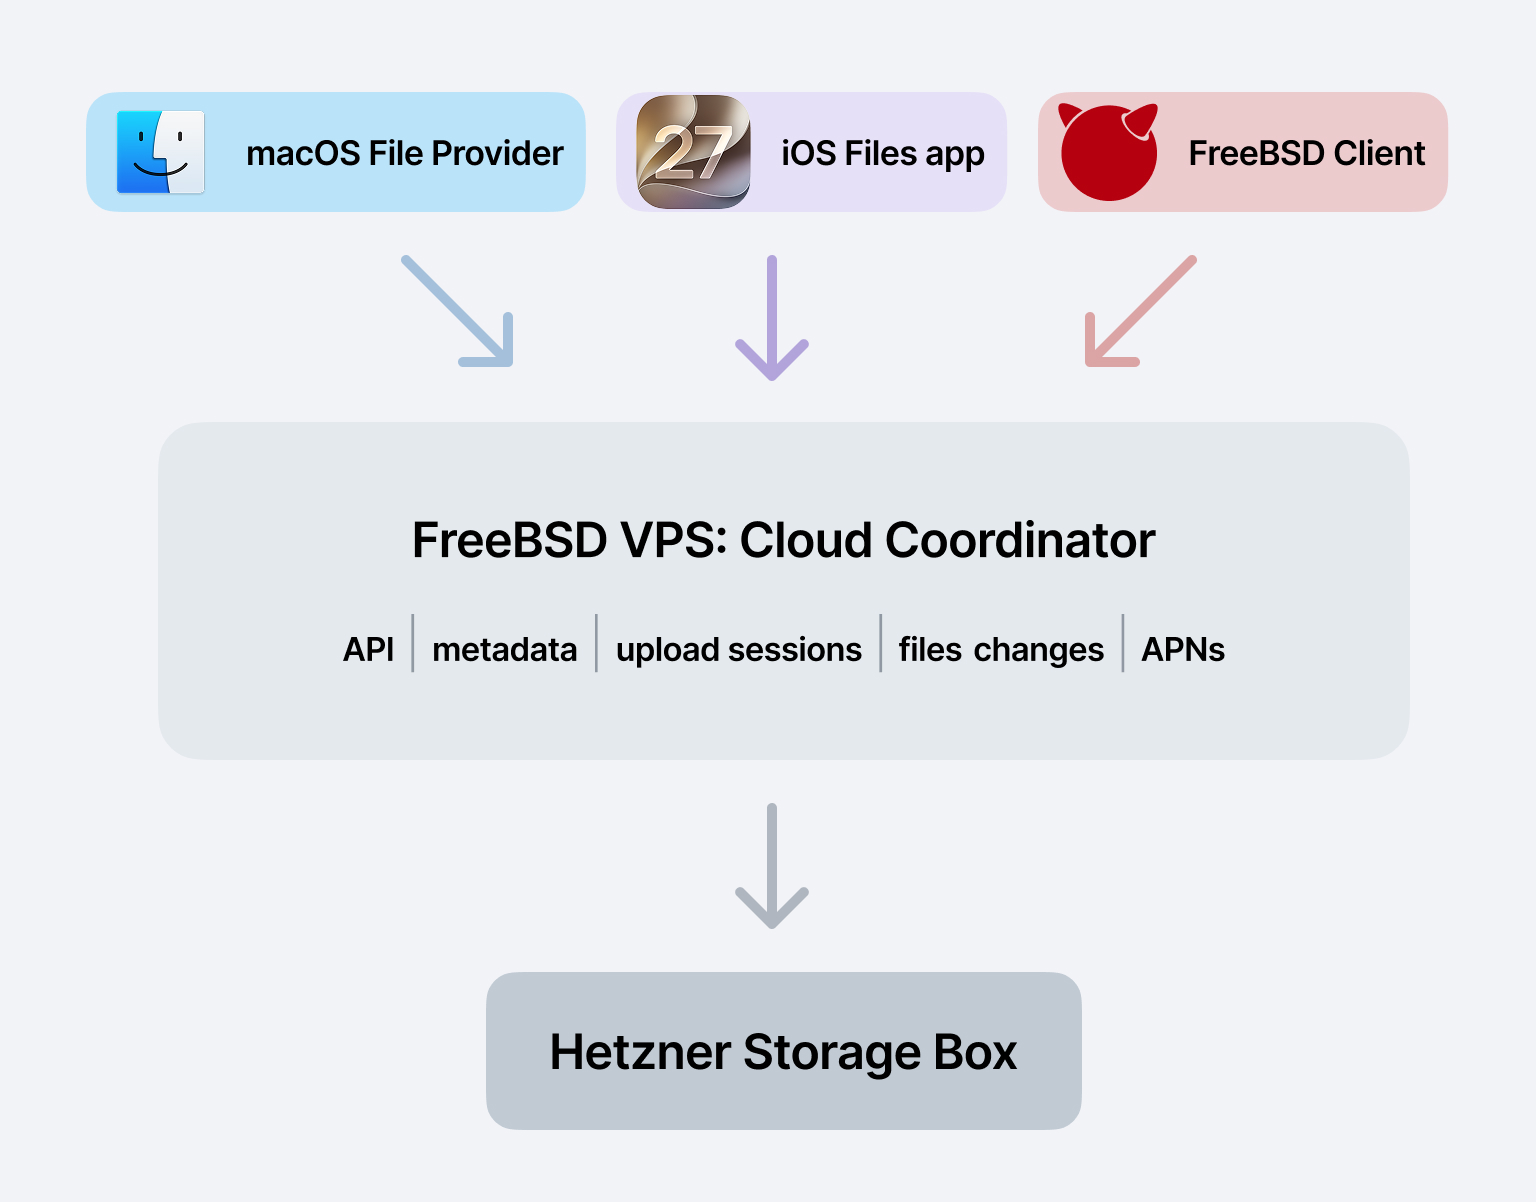
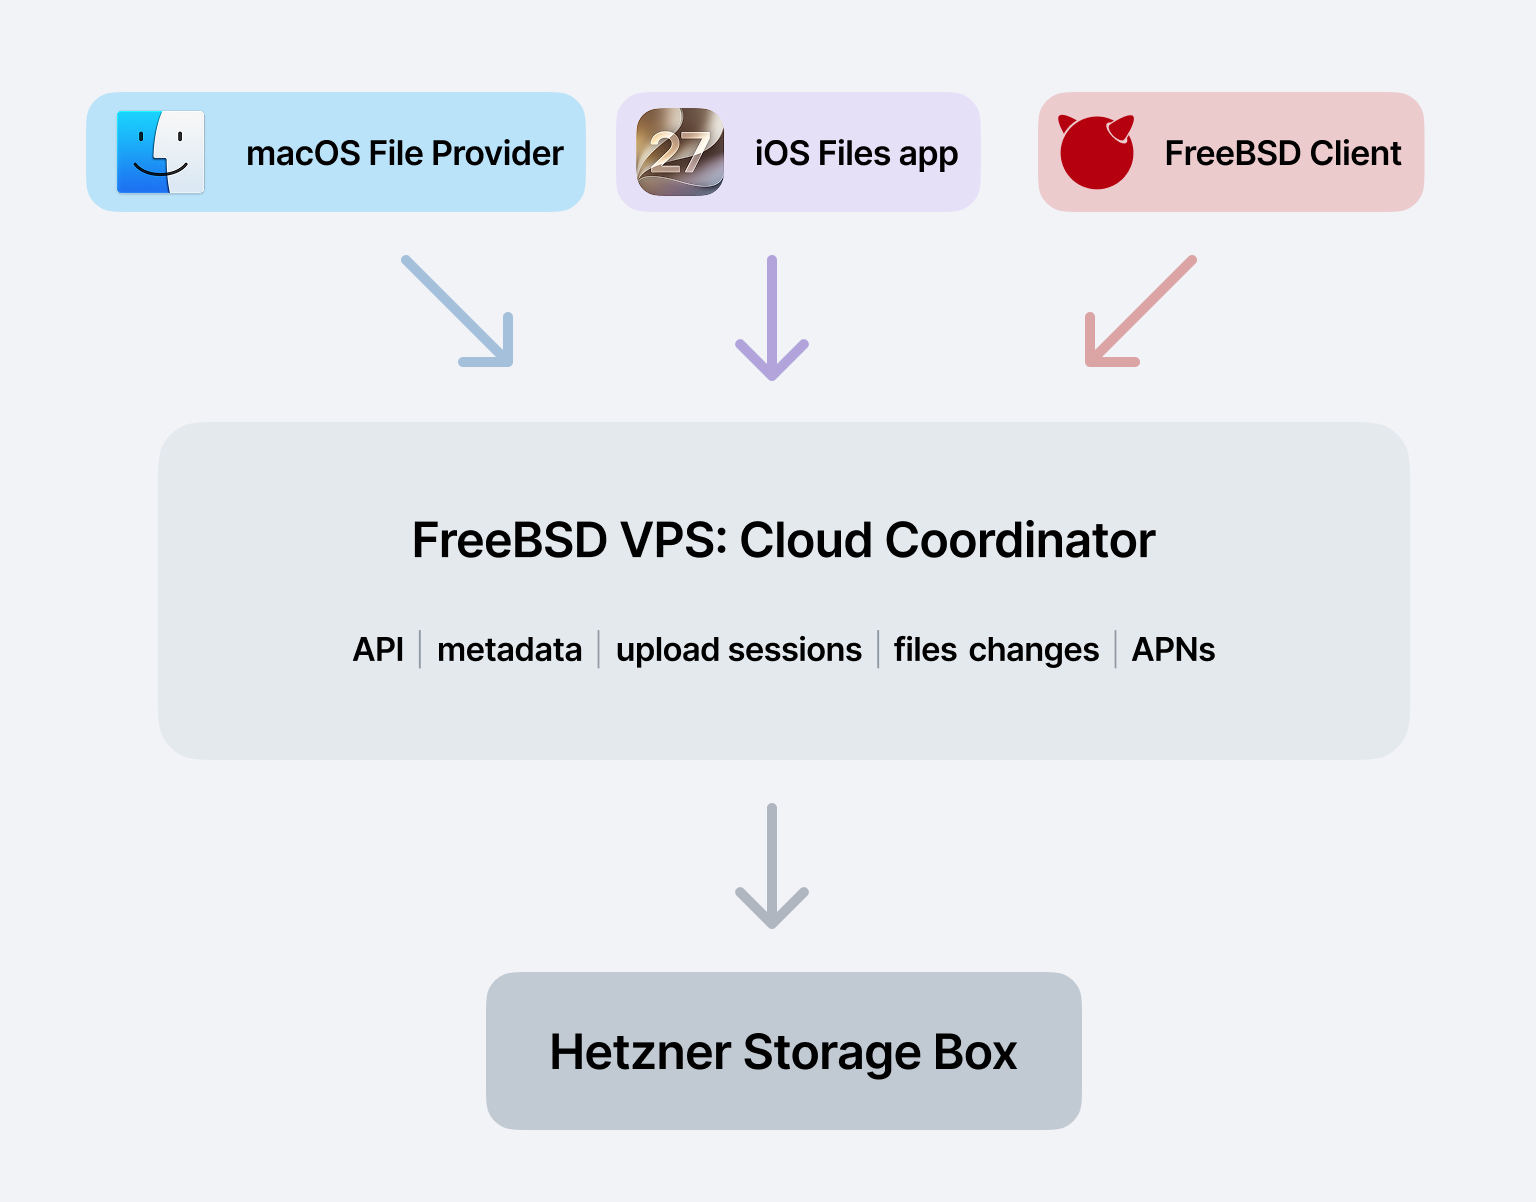
New

diff --git a/public/blog/2026/i-built-a-freebsd-cloud-to-use-with-freebsd/index.html b/public/blog/2026/i-built-a-freebsd-cloud-to-use-with-freebsd/index.html
@@ -119,7 +119,9 @@
 
   <div class="content article-heading-anchors" data-heading-anchors>
     <p>At the moment, I’m working on my own window manager for FreeBSD, called Asterwm. The goal is to make its UX similar to macOS, so I can switch from Mac to FreeBSD during the day without having to readjust my muscle memory.</p>
-<p><img src="/blog/2026/i-built-a-freebsd-cloud-to-use-with-freebsd/asterwm-for-freebsd_hu_53d63bbdc0695de7.webp"  alt="User interface for Asterwm"  width="1920" height="1200" loading="lazy" decoding="async"></p>
+<p><a href="asterwm-for-freebsd.jpg"><img src="/blog/2026/i-built-a-freebsd-cloud-to-use-with-freebsd/asterwm-for-freebsd_hu_53d63bbdc0695de7.webp"  alt="User interface for Asterwm"  width="1920" height="1200" loading="lazy" decoding="async"></a>
+<a href="asterwm-for-freebsd-2.png"><img src="/blog/2026/i-built-a-freebsd-cloud-to-use-with-freebsd/asterwm-for-freebsd-2.png" alt="User interface for Asterwm" 
+  width="1919" height="1199" loading="lazy" decoding="async"></a></p>
 <p>One of the most important things for me was being able to access both my work and personal files.</p>
 <p>I know I could install ready-to-use software for Google Drive or something similar. But I decided to use the power of Codex to build my own cloud solution instead.</p>
 <h2 id="technical-stack-of-the-freebsd-cloud">Technical Stack of the FreeBSD Cloud</h2>
@@ -128,7 +130,11 @@
 <li>A Hetzner Storage Box, where the files are actually stored.</li>
 <li>macOS, iOS, and Asterwm clients to manage files in the cloud: sending, receiving, modifying, and deleting them.</li>
 </ol>
-<p><img src="/blog/2026/i-built-a-freebsd-cloud-to-use-with-freebsd/freebsd-cloud-technical-stack_hu_de7a0c4ef2aa1d1e.webp"  alt="Technical Stack of the FreeBSD Cloud"  width="1536" height="1202" loading="lazy" decoding="async"></p>
+<p><img src="/blog/2026/i-built-a-freebsd-cloud-to-use-with-freebsd/freebsd-cloud-technical-stack_hu_4fb9008bdb27df55.webp"  alt="Technical Stack of the FreeBSD Cloud"  width="1536" height="1202" loading="lazy" decoding="async"></p>
+<br/>
+<video playsinline autoplay loop muted>
+  <source src="new-folder-in-asterwm.mp4" type="video/mp4">
+</video>
 <h2 id="roles">Roles</h2>
 <p>Every file is stored in the Hetzner Storage Box, but no client can talk to that box directly. Each client connects to the VPS to send, receive, update, or delete files. The FreeBSD server keeps track of changes, records them in SQL, and sends files to the Storage Box.</p>
 <p>At the same time, the VPS resolves sync conflicts and notifies every client about changes.</p>
@@ -154,15 +160,16 @@
 <h2 id="unique-feature-for-asterwm">Unique Feature for Asterwm</h2>
 <p>In Asterwm I set it to download not 1, but 4 thumbnails for video files. So I can hover it to see what’s inside without even downloading the file.</p>
 <br/>
-<blockquote class="mastodon-embed" data-embed-url="https://mastodon.social/@alex_deplov/116645362797055336/embed" style="background: #FCF8FF; border-radius: 8px; border: 1px solid #C9C4DA; margin: 0; max-width: 540px; min-width: 270px; overflow: hidden; padding: 0;"> <a href="https://mastodon.social/@alex_deplov/116645362797055336" target="_blank" style="align-items: center; color: #1C1A25; display: flex; flex-direction: column; font-family: system-ui, -apple-system, BlinkMacSystemFont, 'Segoe UI', Oxygen, Ubuntu, Cantarell, 'Fira Sans', 'Droid Sans', 'Helvetica Neue', Roboto, sans-serif; font-size: 14px; justify-content: center; letter-spacing: 0.25px; line-height: 20px; padding: 24px; text-decoration: none;"> <svg xmlns="http://www.w3.org/2000/svg" xmlns:xlink="http://www.w3.org/1999/xlink" width="32" height="32" viewBox="0 0 79 75"><path d="M63 45.3v-20c0-4.1-1-7.3-3.2-9.7-2.1-2.4-5-3.7-8.5-3.7-4.1 0-7.2 1.6-9.3 4.7l-2 3.3-2-3.3c-2-3.1-5.1-4.7-9.2-4.7-3.5 0-6.4 1.3-8.6 3.7-2.1 2.4-3.1 5.6-3.1 9.7v20h8V25.9c0-4.1 1.7-6.2 5.2-6.2 3.8 0 5.8 2.5 5.8 7.4V37.7H44V27.1c0-4.9 1.9-7.4 5.8-7.4 3.5 0 5.2 2.1 5.2 6.2V45.3h8ZM74.7 16.6c.6 6 .1 15.7.1 17.3 0 .5-.1 4.8-.1 5.3-.7 11.5-8 16-15.6 17.5-.1 0-.2 0-.3 0-4.9 1-10 1.2-14.9 1.4-1.2 0-2.4 0-3.6 0-4.8 0-9.7-.6-14.4-1.7-.1 0-.1 0-.1 0s-.1 0-.1 0 0 .1 0 .1 0 0 0 0c.1 1.6.4 3.1 1 4.5.6 1.7 2.9 5.7 11.4 5.7 5 0 9.9-.6 14.8-1.7 0 0 0 0 0 0 .1 0 .1 0 .1 0 0 .1 0 .1 0 .1.1 0 .1 0 .1.1v5.6s0 .1-.1.1c0 0 0 0 0 .1-1.6 1.1-3.7 1.7-5.6 2.3-.8.3-1.6.5-2.4.7-7.5 1.7-15.4 1.3-22.7-1.2-6.8-2.4-13.8-8.2-15.5-15.2-.9-3.8-1.6-7.6-1.9-11.5-.6-5.8-.6-11.7-.8-17.5C3.9 24.5 4 20 4.9 16 6.7 7.9 14.1 2.2 22.3 1c1.4-.2 4.1-1 16.5-1h.1C51.4 0 56.7.8 58.1 1c8.4 1.2 15.5 7.5 16.6 15.6Z" fill="currentColor"/></svg> <div style="color: #787588; margin-top: 16px;">Post by @[email redacted]</div> <div style="font-weight: 500;">View on Mastodon</div> </a> </blockquote> <script data-allowed-prefixes="https://mastodon.social/" async src="https://mastodon.social/embed.js"></script>
+<video playsinline autoplay loop muted>
+  <source src="video-files-hover-in-asterwm.mp4" type="video/mp4">
+</video>
 <p>All thumbnails generated once cached on the server, so if requested by other client, it will be existed already.</p>
 <h2 id="cloud-trash">Cloud Trash</h2>
 <p>Each deleted file goes to the server’s Trash folder, so I can restore it within <strong>N</strong> days.</p>
 <p>The best part is that I control how many days deleted files are kept. I can even set different automatic deletion periods for different folders.</p>
 <h2 id="further-plans">Further Plans</h2>
 <p>Currently, I’m performing a smoke test. Before I can use it daily, I need to ensure that it works well without losing any data.</p>
-<p>I need to create a system that automatically sorts dropped files into subfolders.</p>
-<p>Overall, though, the system works great.</p>
+<p>I also need to create a system that automatically sorts dropped files into subfolders.</p>
 
   </div>
 

diff --git a/content/blog/2026/i-built-a-freebsd-cloud-to-use-with-freebsd.md b/content/blog/2026/i-built-a-freebsd-cloud-to-use-with-freebsd.md
@@ -11,7 +11,8 @@ headingAnchors = true
 
 At the moment, I’m working on my own window manager for FreeBSD, called Asterwm. The goal is to make its UX similar to macOS, so I can switch from Mac to FreeBSD during the day without having to readjust my muscle memory.
 
-![User interface for Asterwm](asterwm-for-freebsd.jpg)
+[![User interface for Asterwm](asterwm-for-freebsd.jpg)](asterwm-for-freebsd.jpg)
+[![User interface for Asterwm](asterwm-for-freebsd-2.png)](asterwm-for-freebsd-2.png)
 
 
 One of the most important things for me was being able to access both my work and personal files.
@@ -25,6 +26,12 @@ I know I could install ready-to-use software for Google Drive or something simil
 3. macOS, iOS, and Asterwm clients to manage files in the cloud: sending, receiving, modifying, and deleting them.
 
 ![Technical Stack of the FreeBSD Cloud](freebsd-cloud-technical-stack.jpg)
+
+<br/>
+
+<video playsinline autoplay loop muted>
+  <source src="new-folder-in-asterwm.mp4" type="video/mp4">
+</video>
 
 
 ## Roles
@@ -74,7 +81,10 @@ At the same time, each client has an option to select folders that should always
 In Asterwm I set it to download not 1, but 4 thumbnails for video files. So I can hover it to see what’s inside without even downloading the file. 
 
 <br/>
-<blockquote class="mastodon-embed" data-embed-url="https://mastodon.social/@alex_deplov/116645362797055336/embed" style="background: #FCF8FF; border-radius: 8px; border: 1px solid #C9C4DA; margin: 0; max-width: 540px; min-width: 270px; overflow: hidden; padding: 0;"> <a href="https://mastodon.social/@alex_deplov/116645362797055336" target="_blank" style="align-items: center; color: #1C1A25; display: flex; flex-direction: column; font-family: system-ui, -apple-system, BlinkMacSystemFont, 'Segoe UI', Oxygen, Ubuntu, Cantarell, 'Fira Sans', 'Droid Sans', 'Helvetica Neue', Roboto, sans-serif; font-size: 14px; justify-content: center; letter-spacing: 0.25px; line-height: 20px; padding: 24px; text-decoration: none;"> <svg xmlns="http://www.w3.org/2000/svg" xmlns:xlink="http://www.w3.org/1999/xlink" width="32" height="32" viewBox="0 0 79 75"><path d="M63 45.3v-20c0-4.1-1-7.3-3.2-9.7-2.1-2.4-5-3.7-8.5-3.7-4.1 0-7.2 1.6-9.3 4.7l-2 3.3-2-3.3c-2-3.1-5.1-4.7-9.2-4.7-3.5 0-6.4 1.3-8.6 3.7-2.1 2.4-3.1 5.6-3.1 9.7v20h8V25.9c0-4.1 1.7-6.2 5.2-6.2 3.8 0 5.8 2.5 5.8 7.4V37.7H44V27.1c0-4.9 1.9-7.4 5.8-7.4 3.5 0 5.2 2.1 5.2 6.2V45.3h8ZM74.7 16.6c.6 6 .1 15.7.1 17.3 0 .5-.1 4.8-.1 5.3-.7 11.5-8 16-15.6 17.5-.1 0-.2 0-.3 0-4.9 1-10 1.2-14.9 1.4-1.2 0-2.4 0-3.6 0-4.8 0-9.7-.6-14.4-1.7-.1 0-.1 0-.1 0s-.1 0-.1 0 0 .1 0 .1 0 0 0 0c.1 1.6.4 3.1 1 4.5.6 1.7 2.9 5.7 11.4 5.7 5 0 9.9-.6 14.8-1.7 0 0 0 0 0 0 .1 0 .1 0 .1 0 0 .1 0 .1 0 .1.1 0 .1 0 .1.1v5.6s0 .1-.1.1c0 0 0 0 0 .1-1.6 1.1-3.7 1.7-5.6 2.3-.8.3-1.6.5-2.4.7-7.5 1.7-15.4 1.3-22.7-1.2-6.8-2.4-13.8-8.2-15.5-15.2-.9-3.8-1.6-7.6-1.9-11.5-.6-5.8-.6-11.7-.8-17.5C3.9 24.5 4 20 4.9 16 6.7 7.9 14.1 2.2 22.3 1c1.4-.2 4.1-1 16.5-1h.1C51.4 0 56.7.8 58.1 1c8.4 1.2 15.5 7.5 16.6 15.6Z" fill="currentColor"/></svg> <div style="color: #787588; margin-top: 16px;">Post by @[email redacted]</div> <div style="font-weight: 500;">View on Mastodon</div> </a> </blockquote> <script data-allowed-prefixes="https://mastodon.social/" async src="https://mastodon.social/embed.js"></script>
+
+<video playsinline autoplay loop muted>
+  <source src="video-files-hover-in-asterwm.mp4" type="video/mp4">
+</video>
 
 All thumbnails generated once cached on the server, so if requested by other client, it will be existed already. 
 
@@ -89,6 +99,4 @@ The best part is that I control how many days deleted files are kept. I can even
 
 Currently, I’m performing a smoke test. Before I can use it daily, I need to ensure that it works well without losing any data. 
 
-I need to create a system that automatically sorts dropped files into subfolders. 
-
-Overall, though, the system works great.
+I also need to create a system that automatically sorts dropped files into subfolders. 